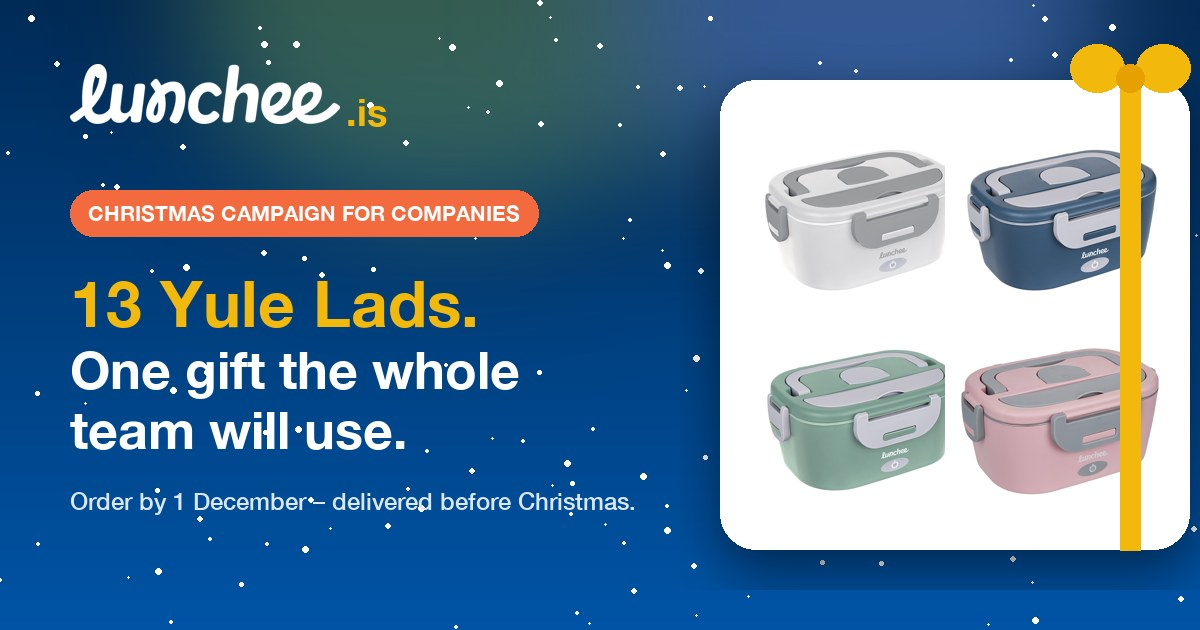
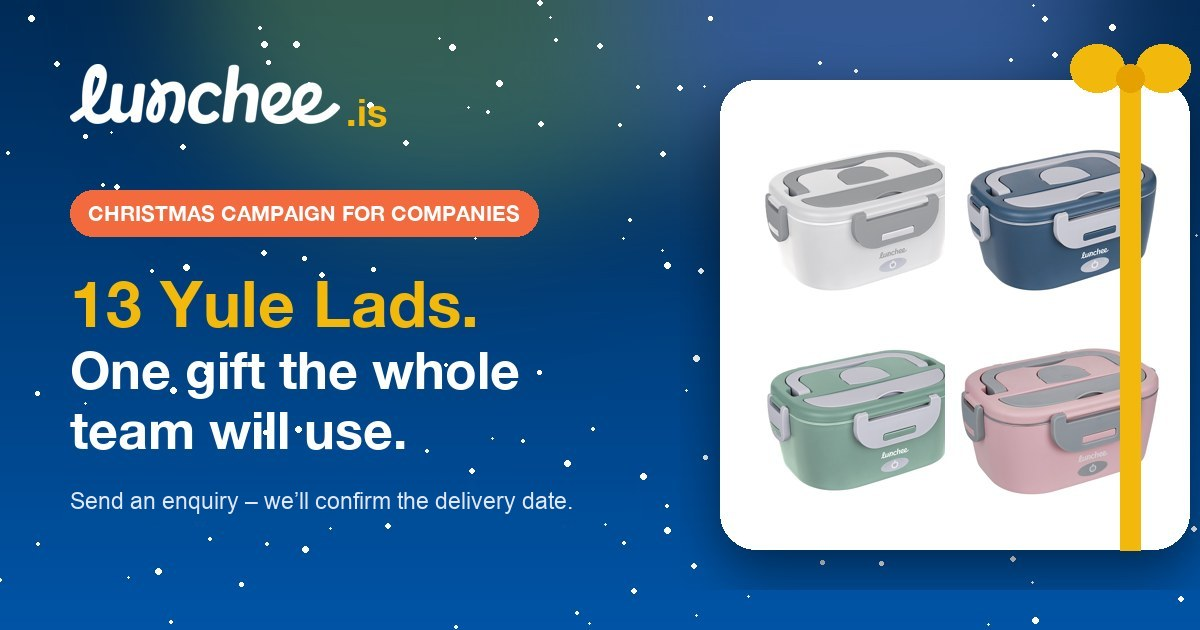
Christmas: drop 'order by 1 December / delivered before Christmas' everywhere; 'Send an enquiry – we'll confirm the delivery date with your offer' instead (box, steps, form note, FAQ, meta, og image)

Changed region(s): [[0.0617, 0.7841, 0.5242, 0.8143]]

diff --git a/js/content.js b/js/content.js
@@ -124,8 +124,8 @@ window.LUNCHEE_COPY = {
         pill: 'Christmas campaign for companies',
         h: '13 Yule Lads. | One gift the whole team will use.',
         lead: 'Give every employee a hot lunch – at the desk, on site or on the road. A practical Christmas gift that stays in use all year, not in a drawer.',
-        countdown: 'days left to order for Christmas',
-        greeting: 'Order by 1 December – delivered before Christmas. Gleðileg jól!',
+        note: 'Send us an enquiry – we’ll confirm the delivery date with your offer.',
+        greeting: 'Gleðileg jól!',
         guideH: 'A gift for everyone on the team',
         guide: [
           ['pearl', 'For the office', 'Lunch from home, warm at the desk – no queue for the microwave.'],
@@ -141,16 +141,16 @@ window.LUNCHEE_COPY = {
         ],
         planH: 'How it works',
         plan: [
-          ['Now – 1 December', 'Tell us your team size and colours.'],
-          ['Within days', 'You get an offer and a company invoice.'],
-          ['Before Christmas', 'The gifts are delivered to your office.']
+          ['Send an enquiry', 'Tell us your team size and colours.'],
+          ['Within days', 'You get an offer with a confirmed delivery date.'],
+          ['Delivery', 'The gifts arrive at your office on the agreed date.']
         ],
         cta: 'Order gifts for your team',
         snowOn: 'Snow: on',
         snowOff: 'Snow: off'
       },
       cta: 'Request a corporate offer',
-      formNote: 'Order by 1 December and we’ll deliver before Christmas.',
+      formNote: 'Planning Christmas gifts? Send an enquiry – we’ll confirm the delivery date with your offer.',
       why: {
         h: 'A gift your employees | will actually use.',
         lead: 'A practical solution for employee gifts and teams working on the move.',
@@ -172,7 +172,7 @@ window.LUNCHEE_COPY = {
       },
       faq: [
         ['Can we order for the whole company?', 'Yes – from a few units to hundreds. Mix colours in one order.'],
-        ['Will it arrive before Christmas?', 'Order by 1 December and we’ll deliver before Christmas.'],
+        ['Will it arrive before Christmas?', 'Send your enquiry as early as you can – we’ll confirm the delivery date in the offer, before you order.'],
         ['Is it a quality product?', 'Yes – a European brand with full documentation and a local contact in Iceland.'],
         ['Invoice for the company?', 'Yes, a regular company invoice.']
       ],    },
@@ -367,8 +367,8 @@ window.LUNCHEE_COPY = {
         pill: 'Świąteczna kampania dla firm',
         h: '13 islandzkich Mikołajów. | Jeden prezent, którego użyje cały zespół.',
         lead: 'Daj każdemu pracownikowi ciepły lunch – przy biurku, na budowie albo w trasie. Praktyczny prezent na święta, który zostaje w użyciu przez cały rok, a nie w szufladzie.',
-        countdown: 'dni na zamówienie przed świętami',
-        greeting: 'Zamów do 1 grudnia – dostarczymy przed świętami. Gleðileg jól!',
+        note: 'Wyślij zapytanie – termin dostawy potwierdzimy w ofercie.',
+        greeting: 'Gleðileg jól!',
         guideH: 'Prezent dla każdego w zespole',
         guide: [
           ['pearl', 'Dla biura', 'Lunch z domu, ciepły przy biurku – bez kolejki do mikrofali.'],
@@ -384,16 +384,16 @@ window.LUNCHEE_COPY = {
         ],
         planH: 'Jak to działa',
         plan: [
-          ['Teraz – 1 grudnia', 'Napisz, ile osób liczy zespół i jakie kolory.'],
-          ['W ciągu kilku dni', 'Dostajesz ofertę i fakturę na firmę.'],
-          ['Przed świętami', 'Prezenty trafiają do Twojego biura.']
+          ['Wyślij zapytanie', 'Napisz, ile osób liczy zespół i jakie kolory.'],
+          ['W ciągu kilku dni', 'Dostajesz ofertę z potwierdzonym terminem dostawy.'],
+          ['Dostawa', 'Prezenty trafiają do Twojego biura w ustalonym terminie.']
         ],
         cta: 'Zamów prezenty dla zespołu',
         snowOn: 'Śnieg: wł.',
         snowOff: 'Śnieg: wył.'
       },
       cta: 'Poproś o ofertę dla firmy',
-      formNote: 'Zamów do 1 grudnia, a dostarczymy przed świętami.',
+      formNote: 'Planujesz prezenty świąteczne? Wyślij zapytanie – termin dostawy potwierdzimy w ofercie.',
       why: {
         h: 'Prezent, z którego pracownicy | naprawdę będą korzystać.',
         lead: 'Praktyczny pomysł na prezent dla pracowników i dla zespołów, które pracują w ruchu.',
@@ -415,7 +415,7 @@ window.LUNCHEE_COPY = {
       },
       faq: [
         ['Czy możemy zamówić dla całej firmy?', 'Tak – od kilku do kilkuset sztuk. Kolory można mieszać w jednym zamówieniu.'],
-        ['Czy dotrze przed świętami?', 'Zamów do 1 grudnia, a dostarczymy przed świętami.'],
+        ['Czy dotrze przed świętami?', 'Wyślij zapytanie jak najwcześniej – termin dostawy potwierdzimy w ofercie, zanim złożysz zamówienie.'],
         ['Czy to dobry jakościowo produkt?', 'Tak – europejska marka z pełną dokumentacją i lokalnym kontaktem na Islandii.'],
         ['Faktura na firmę?', 'Tak, standardowa faktura dla firmy.']
       ],    },

diff --git a/companies/index.html b/companies/index.html
@@ -5,11 +5,11 @@
 <meta name="robots" content="noindex, nofollow">
 <link rel="canonical" href="https://lunchee.is/companies">
 <title>Lunchee – the Christmas gift for your team | Lunchee.is</title>
-<meta name="description" content="13 Yule Lads. One gift the whole team will use. Order by 1 December – delivered before Christmas.">
+<meta name="description" content="13 Yule Lads. One gift the whole team will use. Send an enquiry – we’ll confirm the delivery date with your offer.">
 <meta property="og:type" content="website">
 <meta property="og:site_name" content="Lunchee.is">
 <meta property="og:title" content="Lunchee – the Christmas gift for your team">
-<meta property="og:description" content="13 Yule Lads. One gift the whole team will use. Order by 1 December – delivered before Christmas.">
+<meta property="og:description" content="13 Yule Lads. One gift the whole team will use. Send an enquiry – we’ll confirm the delivery date with your offer.">
 <meta property="og:url" content="https://lunchee.is/companies">
 <meta property="og:image" content="https://lunchee.is/assets/img/og-companies.jpg">
 <meta property="og:image:width" content="1200">

diff --git a/js/main.js b/js/main.js
@@ -197,7 +197,7 @@
     update();
   };
 
-  // Christmas campaign for companies – countdown to the last order day with delivery before Christmas (1 December)
+  // Christmas campaign for companies – no delivery promise: the date is confirmed in the offer
   const renderXmas = (x) => `
     <div class="xmas__inner">
       <div class="xmas__head reveal">
@@ -205,9 +205,7 @@
         <h2>${twoTone(x.h)}</h2>
         <p class="lead">${x.lead}</p>
       </div>
-      ${daysToOrder() > 0 ? `<div class="xmas__count reveal" aria-live="off">
-        <b>${daysToOrder()}</b><span>${x.countdown}</span><em>${x.greeting}</em>
-      </div>` : ''}
+      <div class="xmas__count reveal">${icon('gift')}<span>${x.note}</span><em>${x.greeting}</em></div>
       <h3 class="xmas__sub reveal">${x.guideH}</h3>
       <ul class="guide">${x.guide.map(([f, h, p]) => `
         <li class="reveal"><span class="guide__tag">${icon('gift')}</span><img src="assets/img/${f}.jpg" alt="" width="900" height="900" loading="lazy"><b>${h}</b><p>${p}</p></li>`).join('')}</ul>

diff --git a/index.html b/index.html
@@ -26,7 +26,7 @@
 <link rel="preconnect" href="https://fonts.googleapis.com">
 <link rel="preconnect" href="https://fonts.gstatic.com" crossorigin>
 <link href="https://fonts.googleapis.com/css2?family=Inter+Tight:wght@400..800&family=Outfit:wght@500..800&display=swap" rel="stylesheet">
-<link rel="stylesheet" href="css/style.css?v=20261027-10">
+<link rel="stylesheet" href="css/style.css?v=20261027-11">
 </head>
 <body>
 
@@ -291,7 +291,7 @@
   <p class="foot__contact"><a href="mailto:mikolaj.chrustowski@gmail.com">mikolaj.chrustowski@gmail.com</a> · <a href="tel:+3547825558">+354 782 5558</a></p>
 </footer>
 
-<script src="js/content.js?v=20261027-10" defer></script>
-<script src="js/main.js?v=20261027-10" defer></script>
+<script src="js/content.js?v=20261027-11" defer></script>
+<script src="js/main.js?v=20261027-11" defer></script>
 </body>
 </html>

diff --git a/css/style.css b/css/style.css
@@ -425,7 +425,7 @@ html[data-aud="drivers"] .tile[aria-pressed="true"] .ico { stroke: var(--white);
   background: rgba(255, 255, 255, .1); border: 1px solid rgba(255, 255, 255, .25); border-radius: 22px; padding: 16px 22px;
   backdrop-filter: blur(6px); -webkit-backdrop-filter: blur(6px);
 }
-.xmas__count b { grid-row: span 2; font: 800 clamp(48px, 7vw, 76px)/1 var(--num); color: var(--yellow); }
+.xmas__count .ico { grid-row: span 2; width: 44px; height: 44px; stroke: var(--yellow); stroke-width: 1.8; }
 .xmas__count span { font-weight: 700; font-size: 17px; }
 .xmas__count em { font-style: normal; color: rgba(255, 255, 255, .75); font-size: 15px; }
 .xmas__sub { color: var(--white); font-size: clamp(20px, 2.2vw, 26px); font-weight: 800; }
